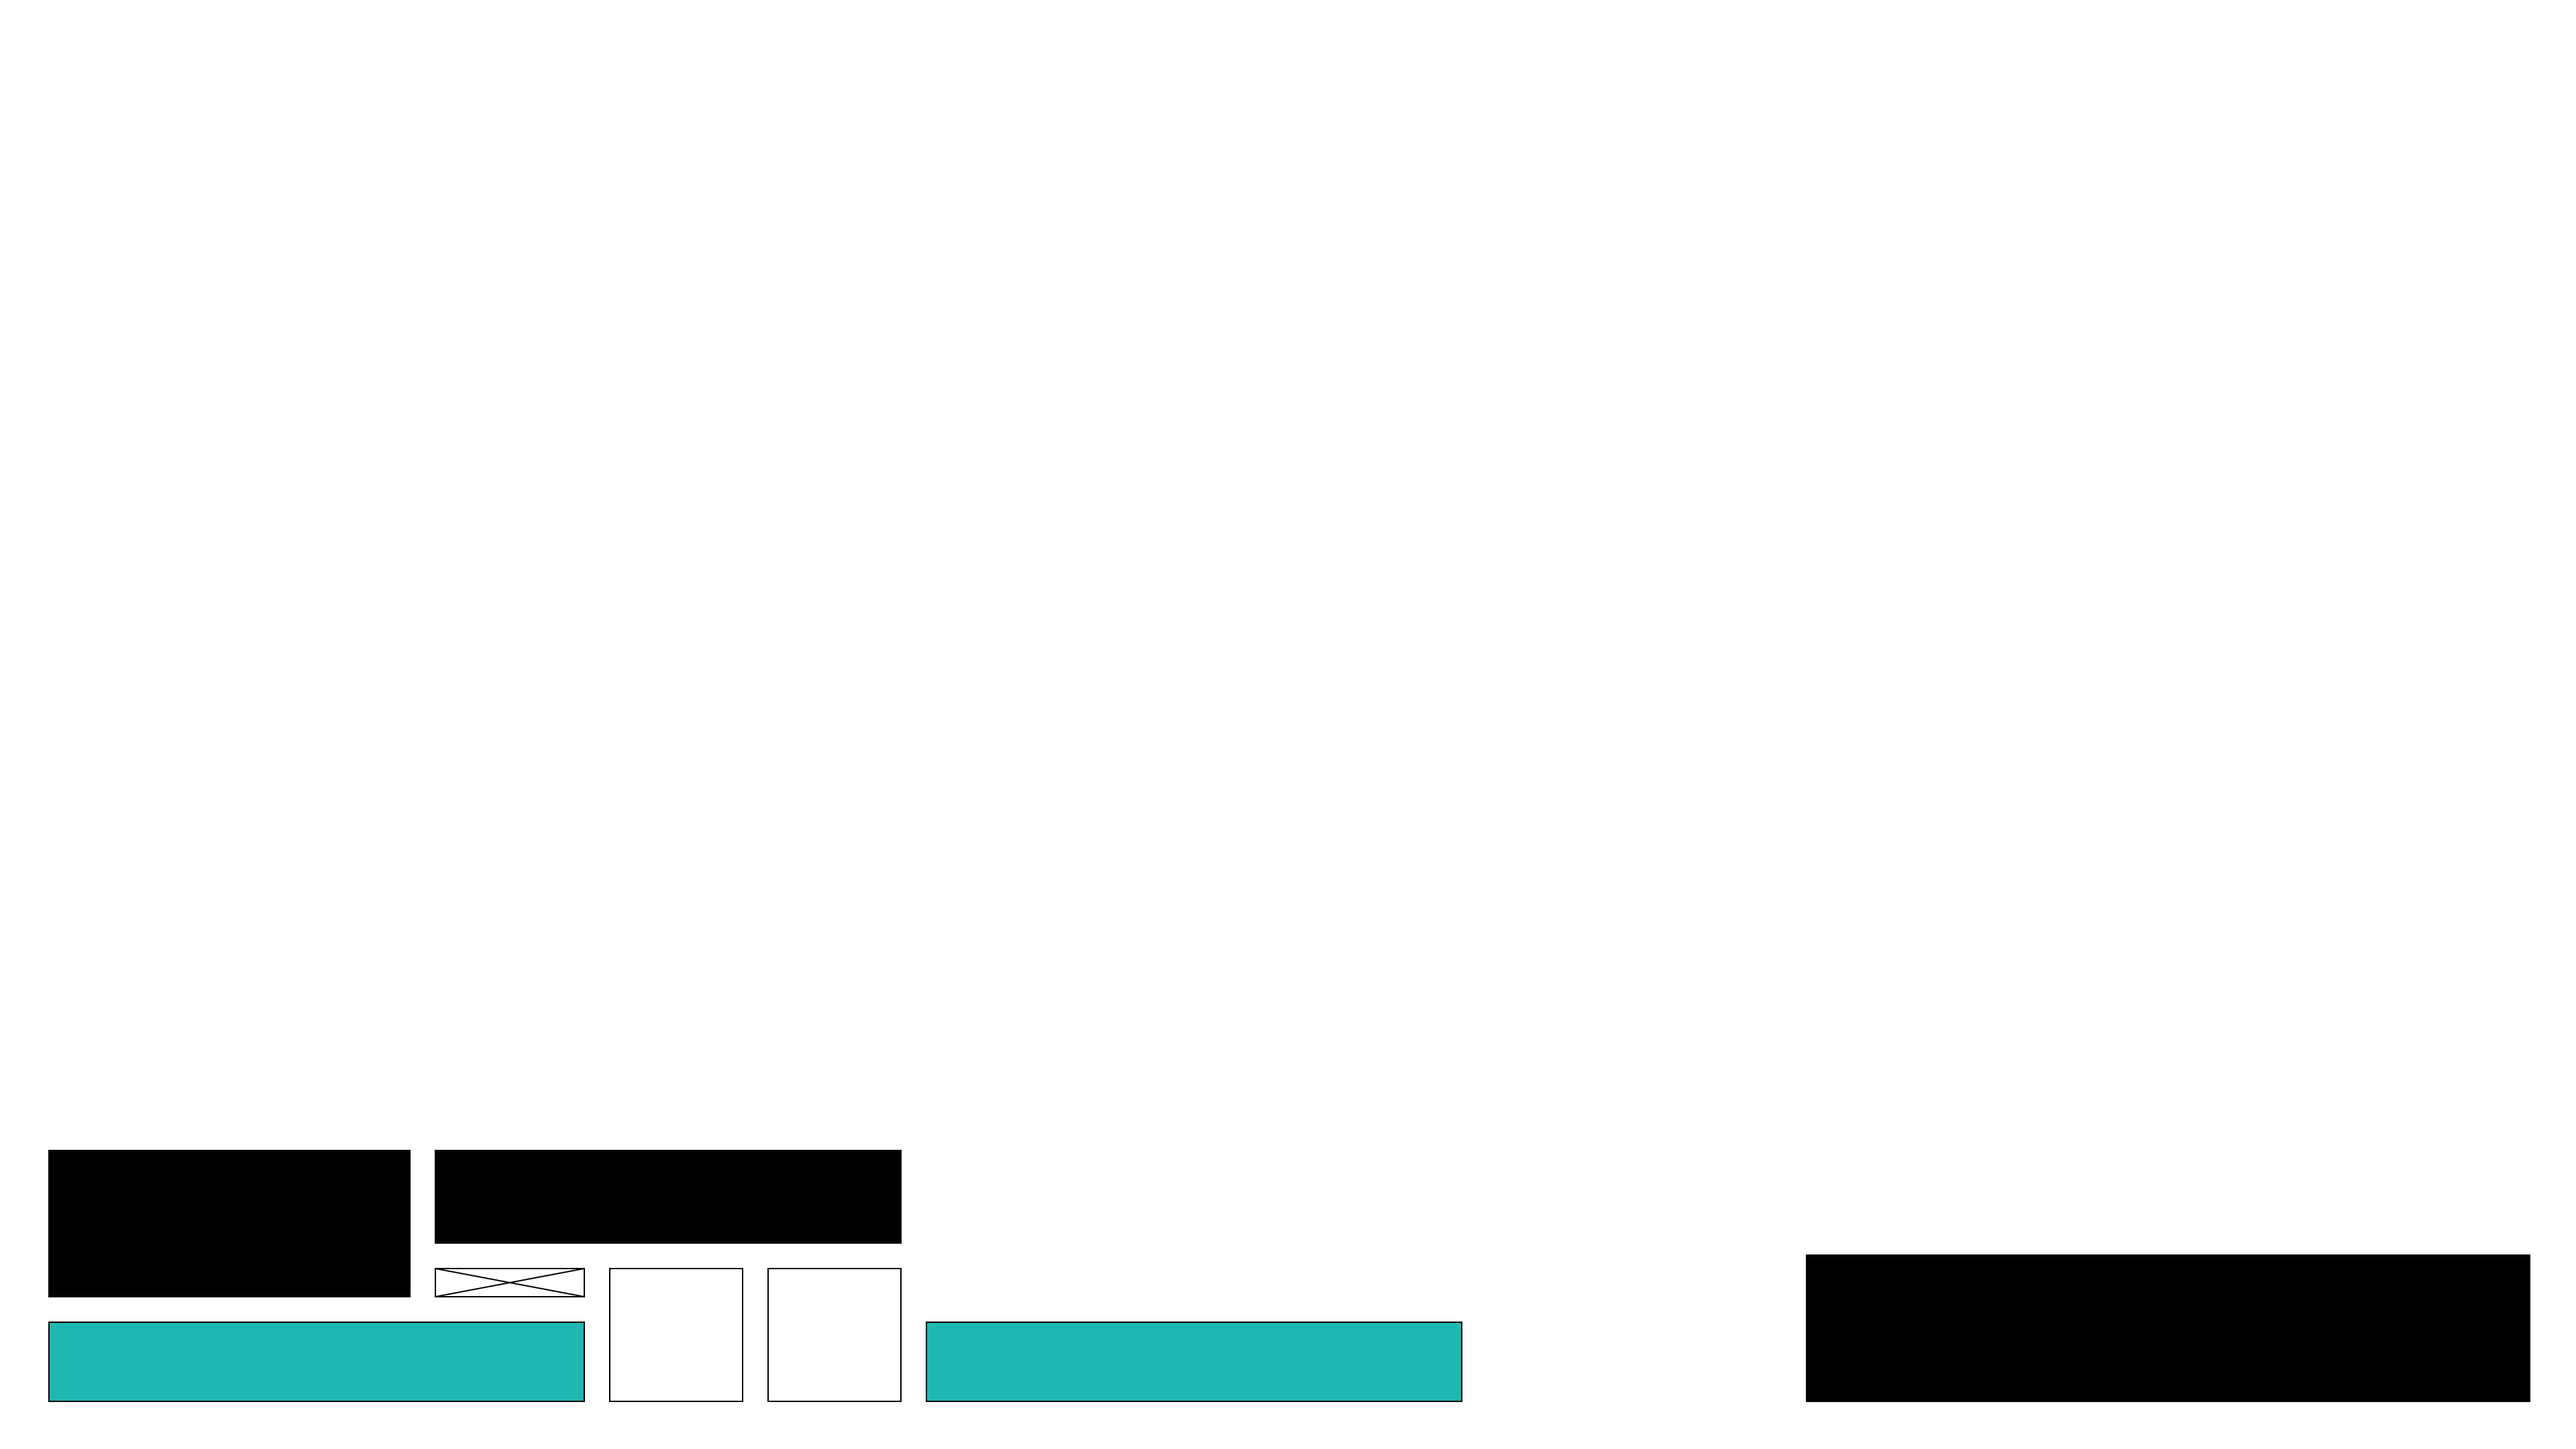
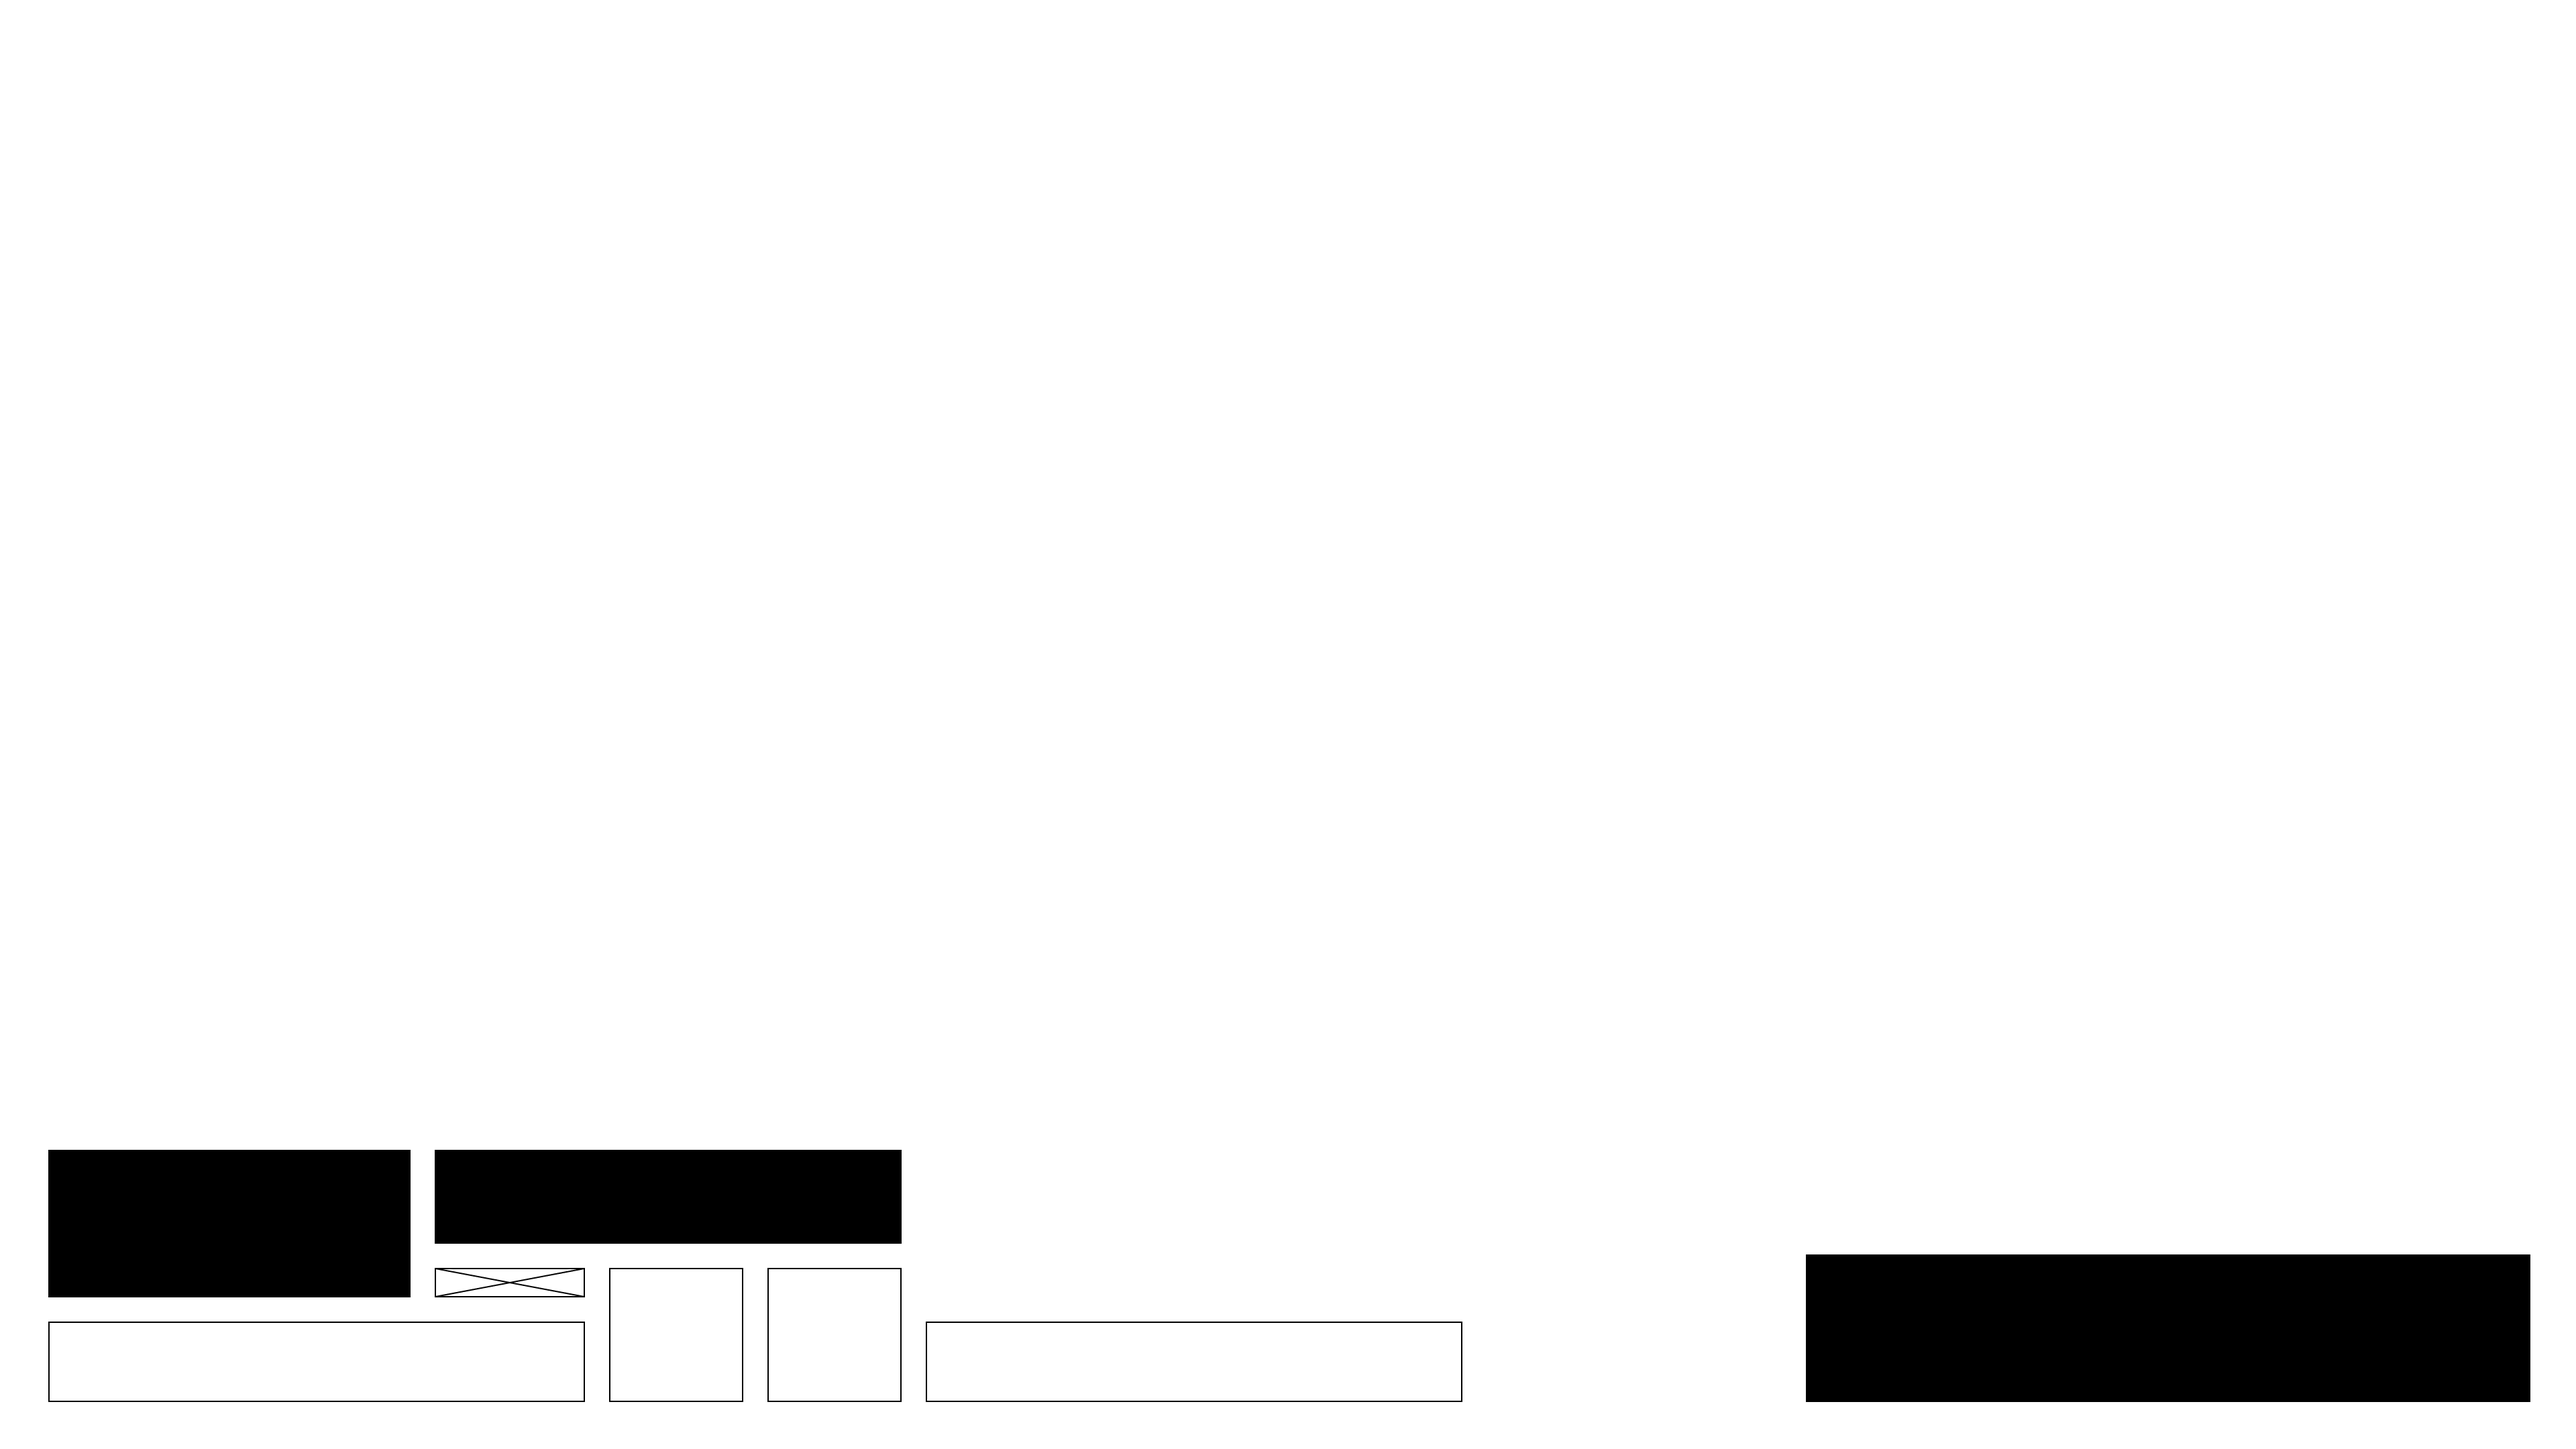
edit for open

Changed region(s): [[0.0, 0.8995, 0.25, 0.9926], [0.3438, 0.8995, 0.5938, 0.9926]]

diff --git a/components/obs/bracket/BracketBox.module.scss b/components/obs/bracket/BracketBox.module.scss
@@ -66,7 +66,6 @@ $black: "Satoshi", "Noto Sans JP", sans-serif;
   font-variation-settings: "wght" 500;
   font-weight: 700;
   line-height: 53px;
-  color: white;
 }
 
 .playerName {
@@ -75,7 +74,6 @@ $black: "Satoshi", "Noto Sans JP", sans-serif;
   font-variation-settings: "wght" 700;
   font-weight: 700;
   line-height: 53px;
-  color: white;
 }
 
 .score {
@@ -85,28 +83,27 @@ $black: "Satoshi", "Noto Sans JP", sans-serif;
   font-size: 42px;
   font-variant-numeric: tabular-nums;
   line-height: 53px;
-  color: white;
   text-align: center;
 }
 
 // 色設定
-.other.losers {
+.bracketBox.losers {
   .player1 span,
   .player2 span {
     color: white;
   }
 }
 
-.other.winners {
+.bracketBox.winners {
   .player1 span,
   .player2 span {
-    color: white;
+    color: black;
   }
 }
 
-.other.grand {
+.bracketBox.grand {
   .player1 span {
-    color: white;
+    color: black;
   }
 
   .player2 span {

diff --git a/styles/globals.scss b/styles/globals.scss
@@ -31,11 +31,13 @@
 @font-face {
   font-family: "General Sans SemiBold";
   src: url("/fonts/GeneralSans-SemiBold.woff2");
+  size-adjust: 102%;
 }
 
 @font-face {
   font-family: "General Sans Bold";
   src: url("/fonts/GeneralSans-Bold.woff2");
+  size-adjust: 102%;
 }
 @font-face {
   font-family: "Switzer Bold";

diff --git a/components/obs/next/simple.scss b/components/obs/next/simple.scss
@@ -90,7 +90,7 @@
       font-size: 36px;
       font-weight: 700;
       line-height: 32px;
-      color: white;
+      color: black;
     }
 
     .name {
@@ -99,7 +99,7 @@
       font-size: 36px;
       font-weight: 700;
       line-height: 32px;
-      color: white;
+      color: black;
     }
   }
 

diff --git a/components/obs/score/Simple.scss b/components/obs/score/Simple.scss
@@ -94,7 +94,7 @@
 
     &::after {
       margin-left: 3px;
-      content: "/";
+      content: "–";
     }
   }
 
